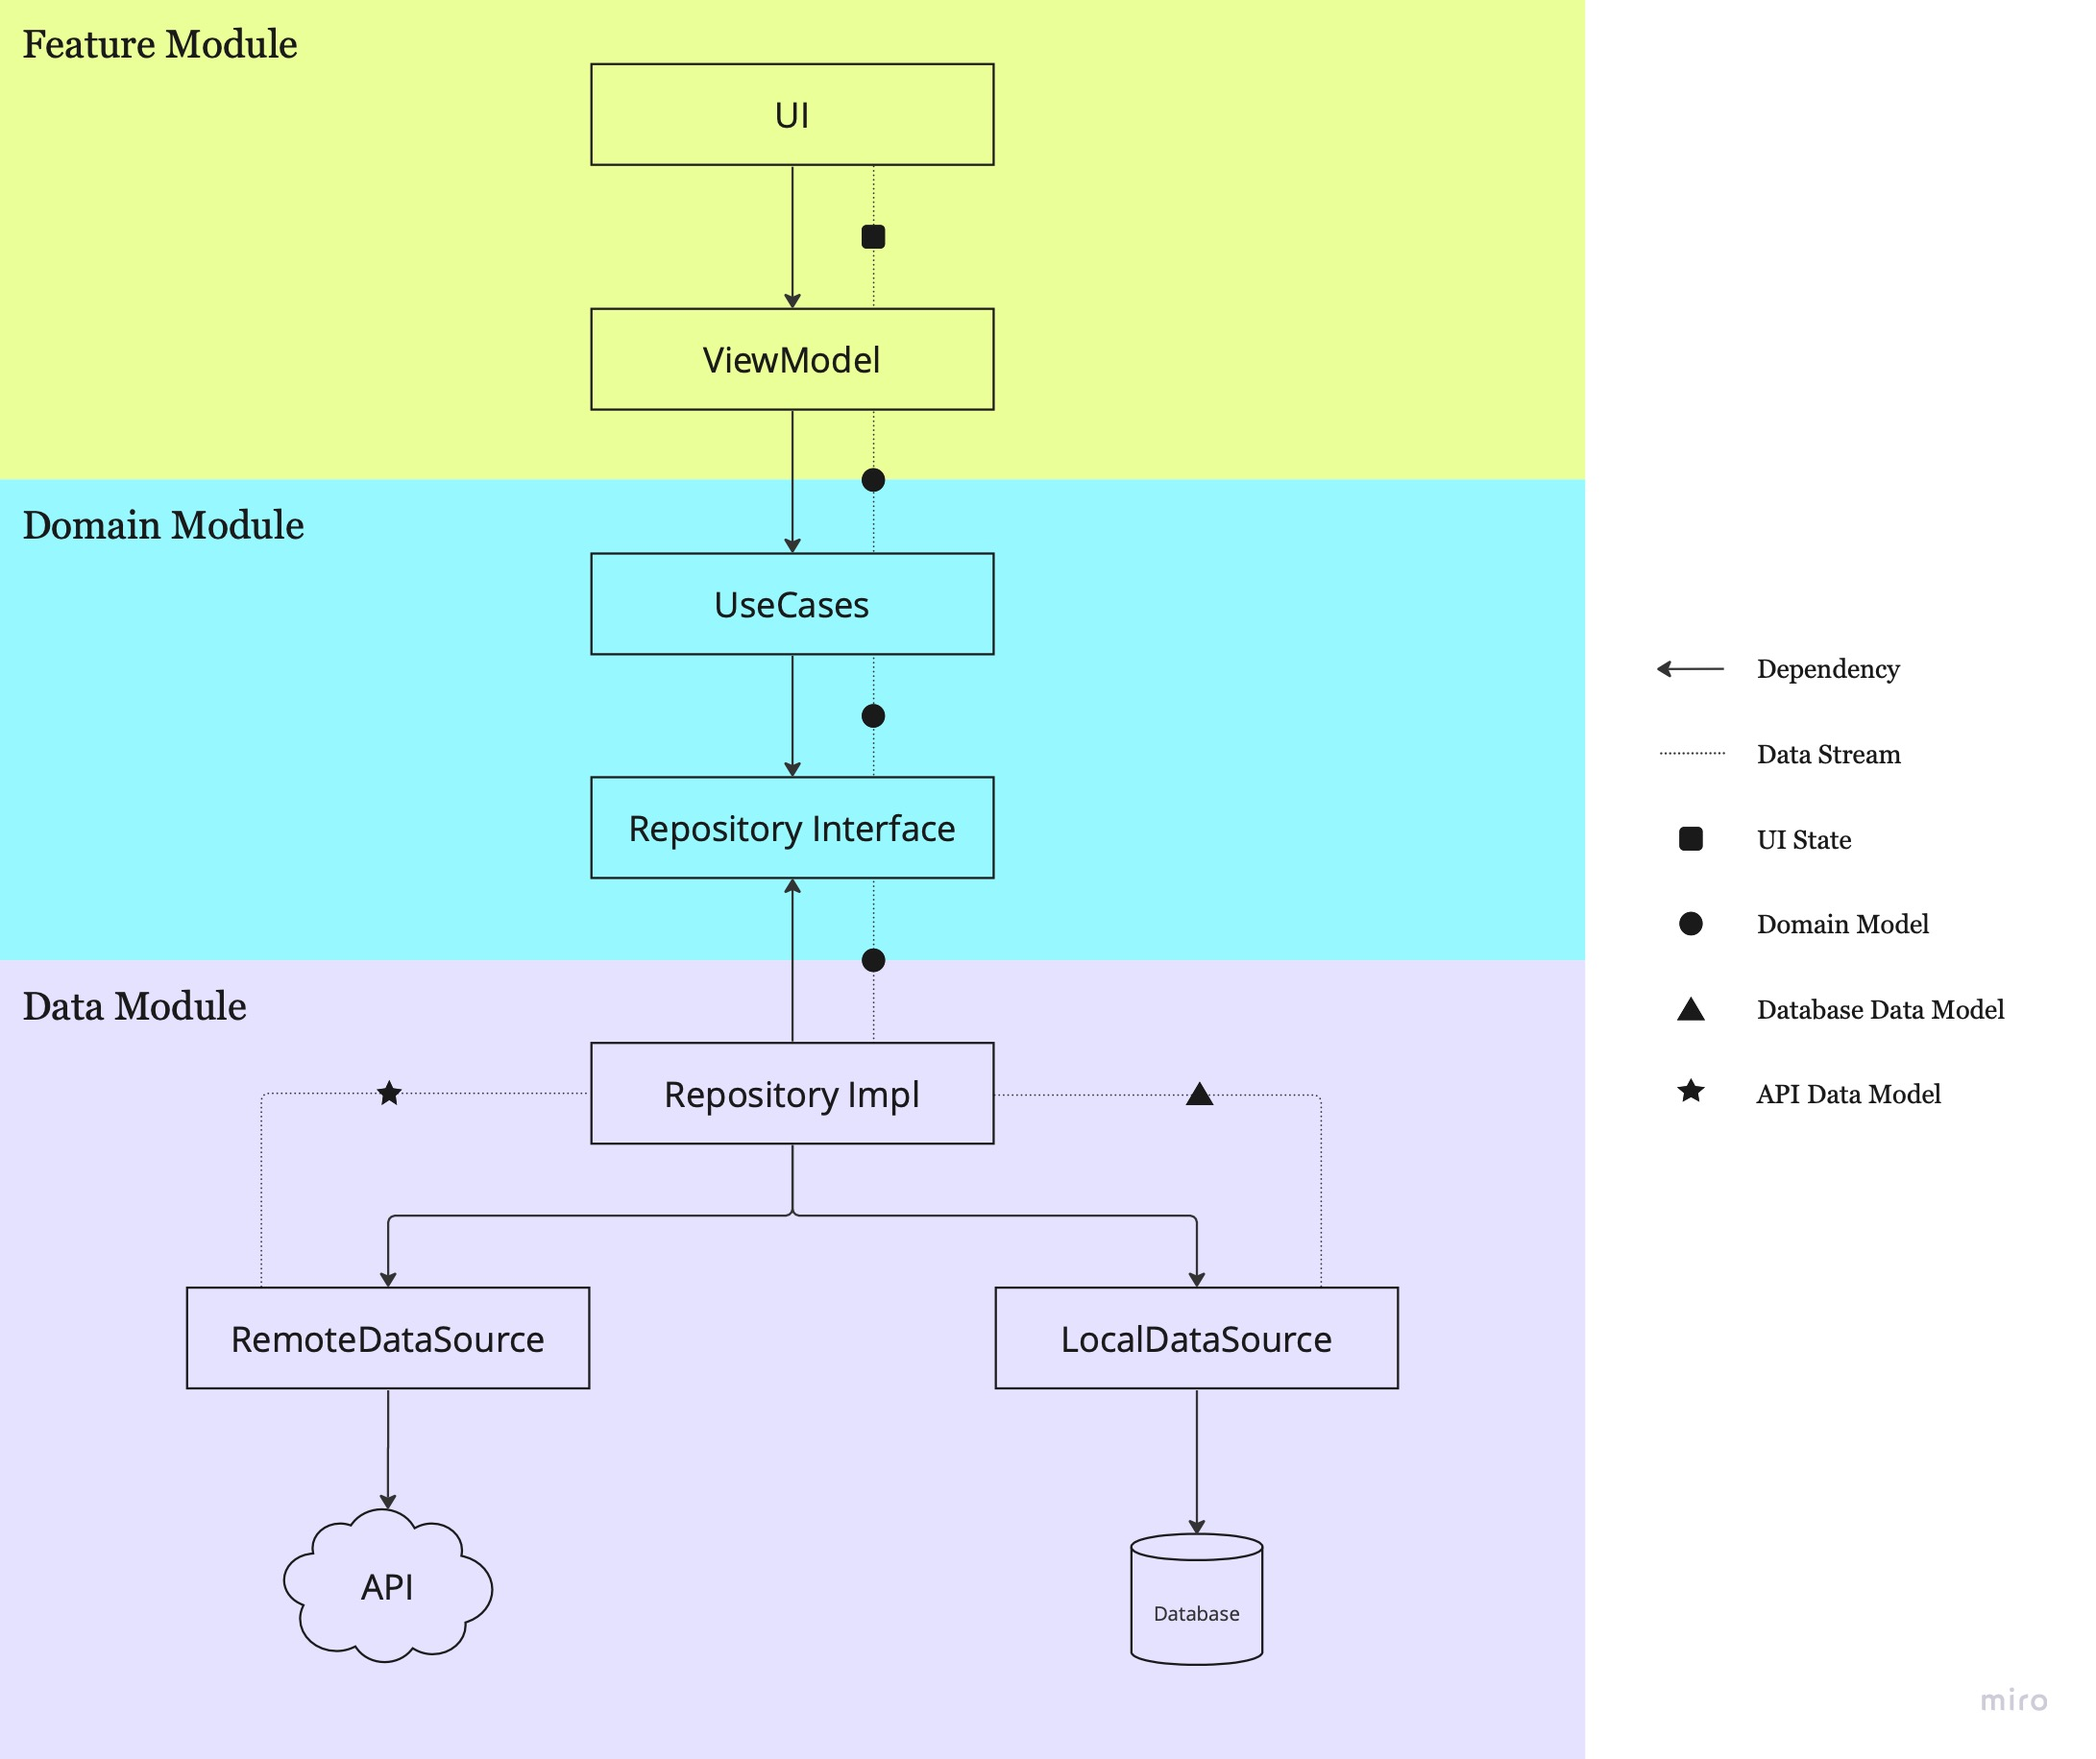
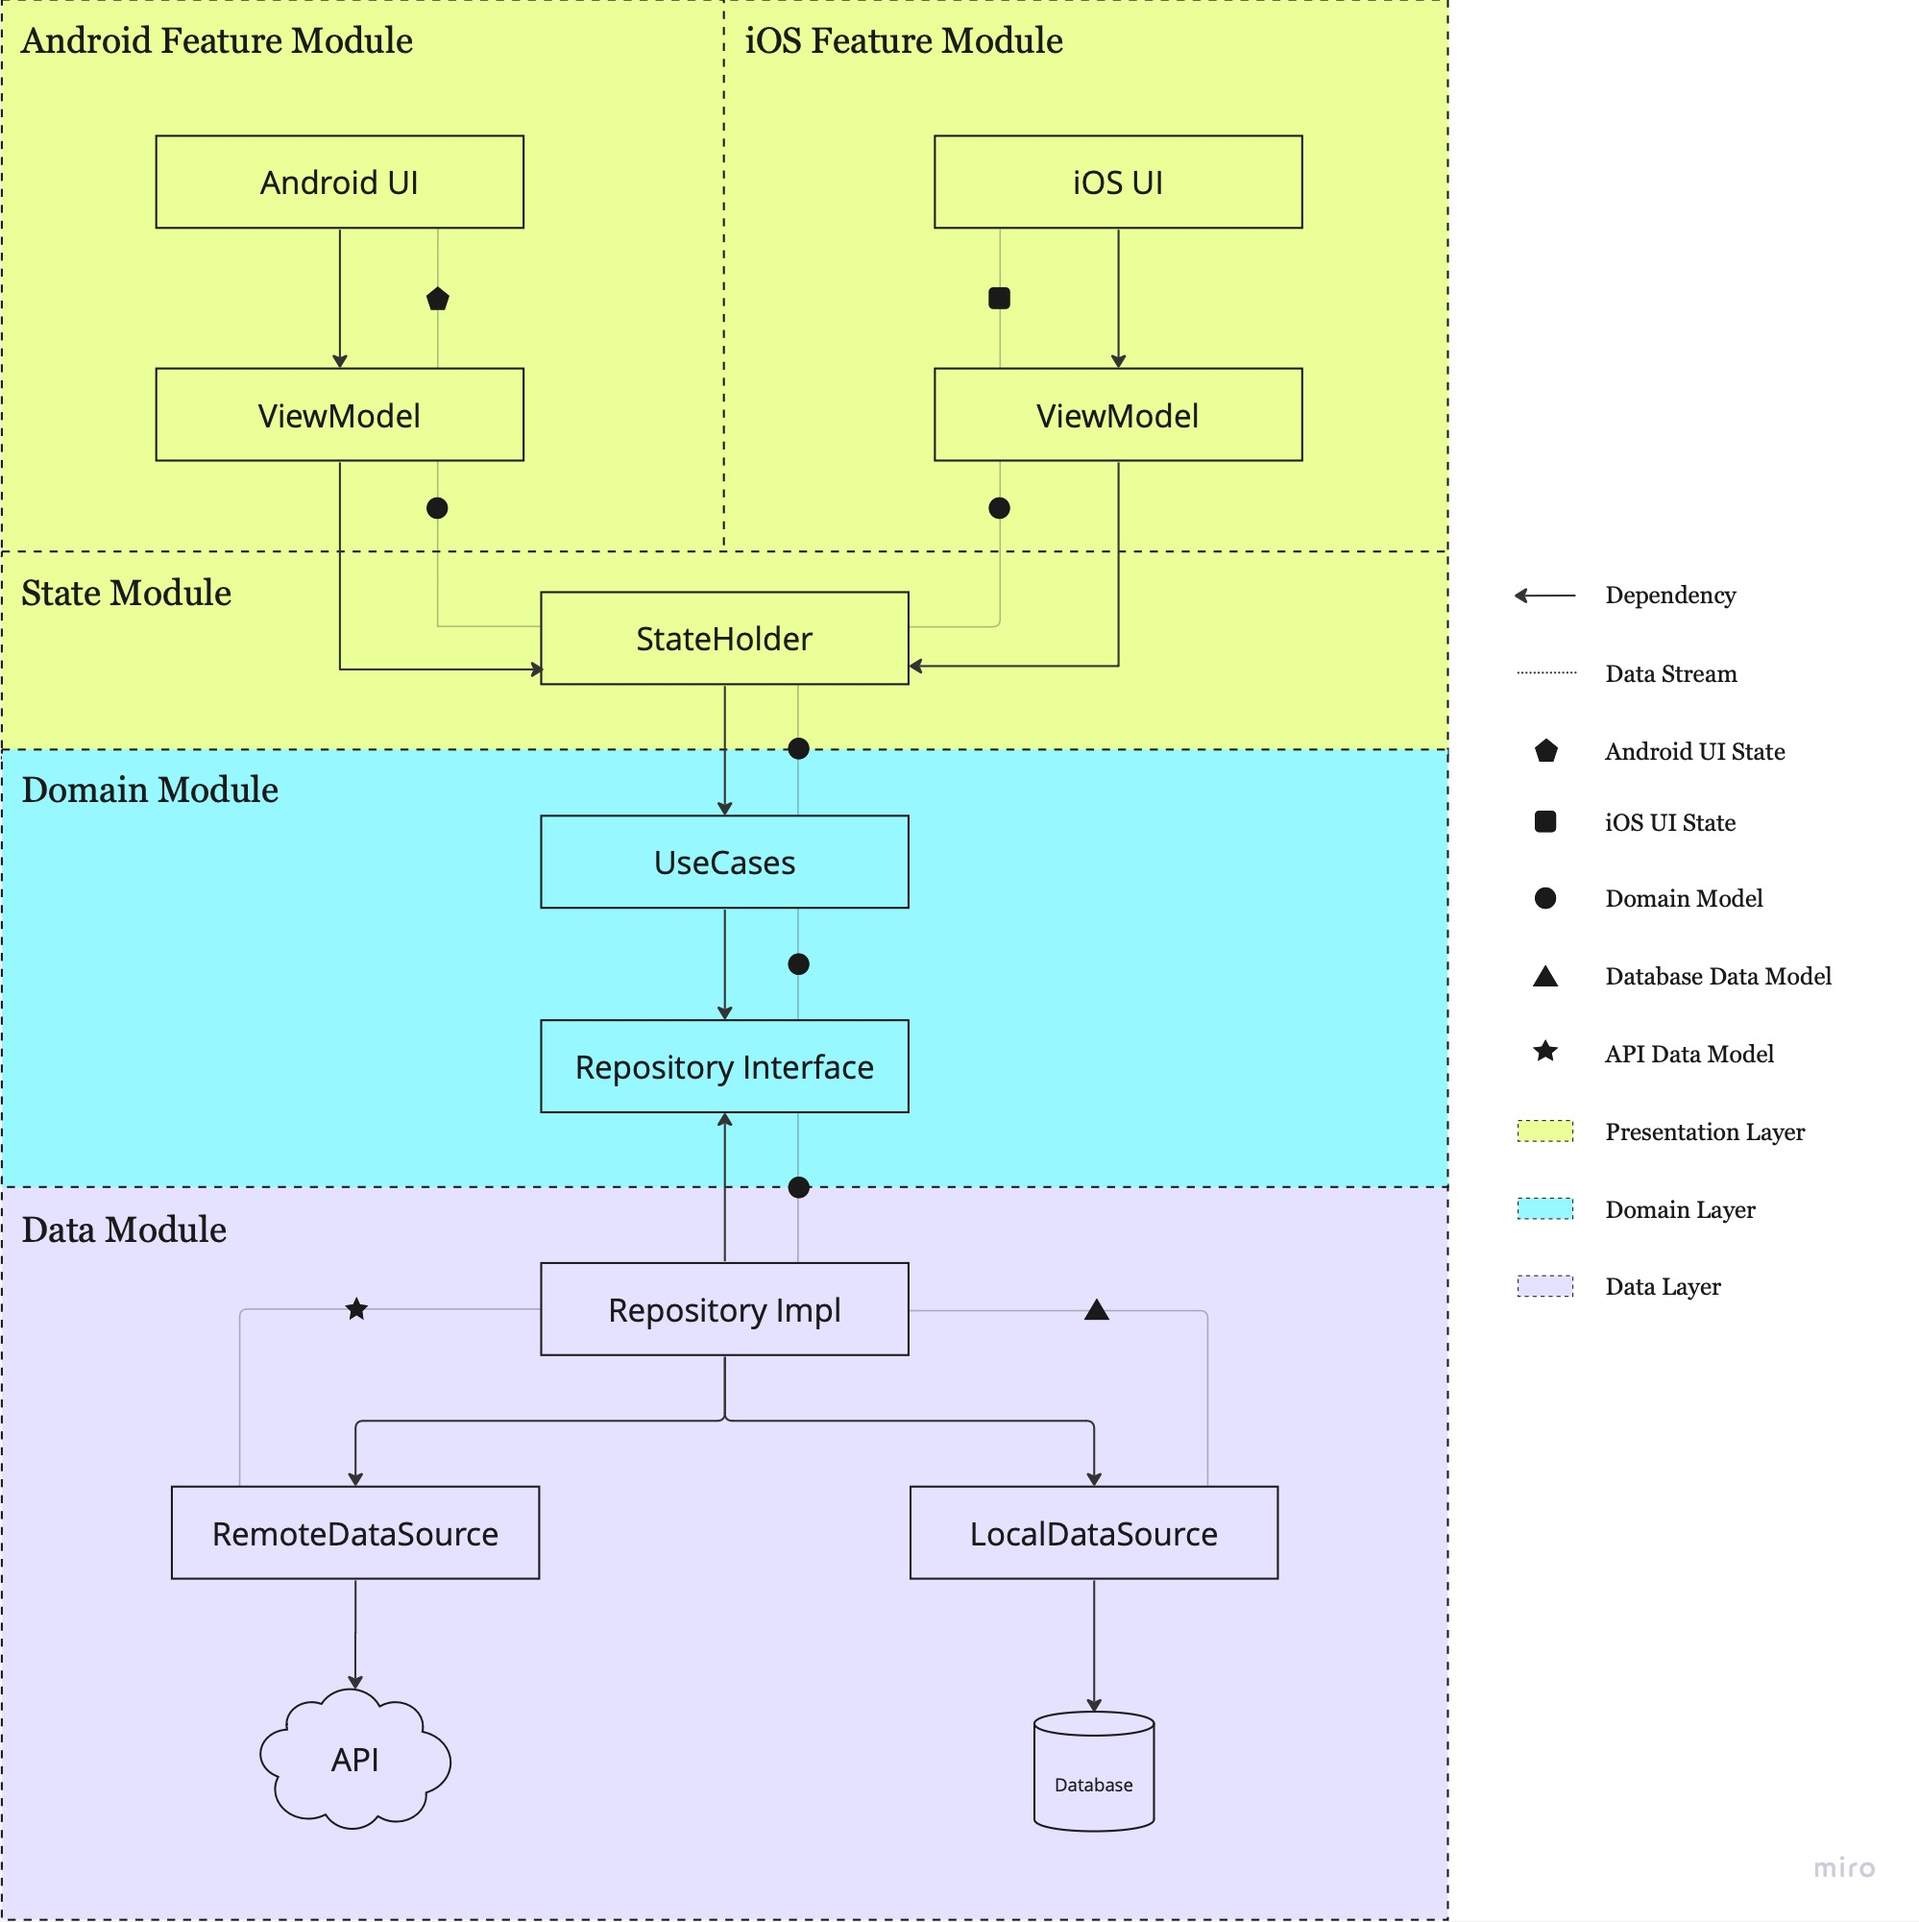
Update README.md

diff --git a/README.md b/README.md
@@ -6,9 +6,7 @@
 
 [![Android CI](https://github.com/alexandregpereira/hunter/actions/workflows/android.yml/badge.svg?branch=main)](https://github.com/alexandregpereira/hunter/actions/workflows/android.yml) <a href="https://devlibrary.withgoogle.com/products/android/repos/alexandregpereira-monster-compendium" target="_blank"><img alt="Android Dev Library" src="https://img.shields.io/badge/Google%20Dev%20Library-alexandregpereira-blue?style=flat&logo=android"/></a>
 
-
-
-Monsters Compendium is an open source Android application containing information about monsters from the Dungeons & Dragons 5th edition role-playing game. The default content is from the SRD (System's Reference Document), but it is also possible to add new content to the app.
+Monsters Compendium is an open-source Kotlin Multiplatform application for both Android and iOS, offering extensive information on monsters from the Dungeons & Dragons 5th edition role-playing game. The default content is derived from the SRD (System Reference Document), providing a solid foundation for users. Furthermore, the app supports the addition of new custom content, enhancing its versatility and adaptability for players and game masters alike.
 
 <a href='https://play.google.com/store/apps/details?id=br.alexandregpereira.hunter.app&hl=en_US&gl=US&pcampaignid=pcampaignidMKT-Other-global-all-co-prtnr-py-PartBadge-Mar2515-1'><img width="20%" alt='Get it on Google Play' src='https://play.google.com/intl/en_us/badges/static/images/badges/en_badge_web_generic.png'/></a>
 
@@ -20,31 +18,63 @@ Monsters Compendium is an open source Android application containing information
     <img src="media/monster-detail.gif" width ="20%" />
 </p>
 
+## Key features:
+
+- A well-organized monster compendium, divided into intuitive sections for easy navigation, complete with visually appealing images for an engaging user experience.
+- Comprehensive monster details, featuring stat blocks, monster lore, captivating high-resolution images, and links to related spell details. Users can navigate through the compendium pages seamlessly, simulating the feel of paging through a physical book.
+- Quick access to spell details of the monsters, providing essential information at your fingertips.
+- A powerful search functionality that allows users to quickly find specific monsters.
+- A user-friendly interface to organize monsters into customizable folders for better campaign management.
+
 ## Tech Stack
 
+The following is an overview of the key technologies and libraries used in this Kotlin Multiplatform project, each with a brief description and a URL for further information:
+
 - [Jetpack Compose](https://developer.android.com/jetpack/compose): Android’s modern toolkit for building native UI. It simplifies and accelerates UI development on Android.
+- [SwiftUI:](https://developer.apple.com/documentation/swiftui): A user interface toolkit for building modern, responsive apps for iOS, macOS, and more using Swift.
 - [Kotlin Coroutines](https://kotlinlang.org/docs/coroutines-guide.html): A coroutine is a concurrency design pattern that you can use on Android to simplify code that executes asynchronously.
-- [Kotlin Flow](): Stream of data that can be computed asynchronously. Built in top of the Kotlin Coroutines.
+- [Kotlin Flow](https://kotlinlang.org/docs/flow.html): Stream of data that can be computed asynchronously. Built in top of the Kotlin Coroutines.
 - [Koin](https://github.com/InsertKoinIO/koin): A pragmatic lightweight dependency injection framework for Kotlin & Kotlin Multiplatform.
-- [Room](https://developer.android.com/training/data-storage/room): The Room persistence library provides an abstraction layer over SQLite to allow fluent database access while harnessing the full power of SQLite.
-- [Retrofit](https://square.github.io/retrofit): A type-safe HTTP client for Android and Java.
+- [SQLDelight](https://github.com/cashapp/sqldelight): A multiplatform SQLite library that generates Kotlin typesafe APIs from SQL statements.
+- [Ktor-client](https://github.com/ktorio/ktor): A multiplatform asynchronous HTTP client for Kotlin, providing a clean and extensible API for making network requests.
+- [Multiplatform Settings](https://github.com/russhwolf/multiplatform-settings): A library that provides a simple and consistent API for persisting key-value data across iOS, Android, and JVM platforms.
 - [Accompanist](https://github.com/google/accompanist): A group of libraries that aim to supplement Jetpack Compose with features that are commonly required by developers but not yet available.
 - [Coil Compose](https://coil-kt.github.io/coil/compose): An image loading library for Android backed by Kotlin Coroutines and Jetpack Compose.
-- [Kotlin Serialization](https://kotlinlang.org/docs/serialization.html): Convert the API JSON responses. 
+- [Kotlin Serialization](https://kotlinlang.org/docs/serialization.html): A library for parsing and serializing JSON data, seamlessly converting API responses into Kotlin objects.
 
 ## App Architecture
 
-The app architecture is divided by feature, domain and data modules. The image below demonstrates it.
+The app's architecture is organized into feature, domain, and data layers, as illustrated in the image below:
 
 ![](media/app-architecture.jpg)
 
 ### Components Responsibilities
 
-- **UI**: It is responsible to show the data from the UI State to the user.
-- **ViewModel**: It is the UI state holder. It transforms the domain model to UI State and holds it, sending to the UI.
-- **UseCases**: It holds the business logic. Getting data from the Repository interface or over other use cases.
-- **Repository**: It converts the data models (network and database) to domain models.
-- **DataSources**: It transfers data from a single source only.
+- **UI**: It is responsible for displaying data from the UI State to the user and handling user interactions.
+- **ViewModel**: It transforms the domain model into a UI Model and sends it to the UI.
+- **StateHolder**: It holds the UI State, manages the app's UI state and logic, and dispatches changes when receiving intents, enabling a reactive UI experience.
+- **UseCases**: It contains the business logic, retrieving data from the Repository interface or coordinating with other use cases to perform complex tasks.
+- **Repository**:  It acts as a mediator between different data sources (network or database) and converts the data models into domain models, ensuring a clean separation of concerns
+- **DataSources**: It is responsible for fetching and transferring data from a single source, such as an API or a local database, and returning the data in a consistent format.
+
+## Roadmap
+
+### UI
+- Monster detail (iOS): In Progress
+- Master Lore Detail (iOS): To Do
+- Spell detail (iOS): To Do
+- Bottom Bar Navigation (iOS): To Do
+- Configuration screen (iOS): To Do
+- Folder preview (iOS): To Do
+- Monster folders (iOS): To Do
+- Add Monster to Folder (iOS): To Do
+- Search (iOS): To Do
+
+### Feature
+- Remove monsters from folder (Android, iOS): To Do
+
+### Bugs
+- Fix duplication of damage dice when changing to meters: To Fix
 
 ## Adding New Content
 
@@ -52,19 +82,19 @@ You can add custom image and new monsters to the app. The tutorial can be found 
 
 ## API
 
-There is no backend for now. The app retrieves the data from JSON files stored [here](https://github.com/alexandregpereira/hunter-api). The JSON were formatted from the API https://dnd5eapi.co.
+Currently, there is no dedicated backend for the app. The app retrieves the data from static JSON files stored [here](https://github.com/alexandregpereira/hunter-api). The JSON were formatted from the API https://dnd5eapi.co.
 
 ## Content License
 
-The content of this app are Open-Gaming License (OGL). The content and license can found at the [D&D 5th Systems Reference Document (SRD)](https://dnd.wizards.com/resources/systems-reference-document). Dungeons & Dragons (D&D) is a trademark of Wizards of the Coast company.
+The content in this app is licensed under the Open-Gaming License (OGL). The content and license can found at the [D&D 5th Systems Reference Document (SRD)](https://dnd.wizards.com/resources/systems-reference-document). Dungeons & Dragons (D&D) is a trademark of Wizards of the Coast company.
 
 ## Icons License
 
-The icons used in this app have a free license. They are designed by [macrovector from Freepik](http://www.freepik.com), [Freepik from Flaticon](https://www.flaticon.com) and [Material Design from Google](https://github.com/google/material-design-icons/blob/master/LICENSE).
+The icons used in this app have a free license. They are designed by [macrovector from Freepik](https://www.freepik.com/macrovector), [Freepik from Flaticon](https://www.flaticon.com/authors/freepik) and [Material Design from Google](https://github.com/google/material-design-icons/blob/master/LICENSE).
 
-## Licence
+## License
 
-    Copyright 2022 Alexandre Gomes Pereira
+    Copyright 2023 Alexandre Gomes Pereira
     
     Licensed under the Apache License, Version 2.0 (the "License");
     you may not use this file except in compliance with the License.
